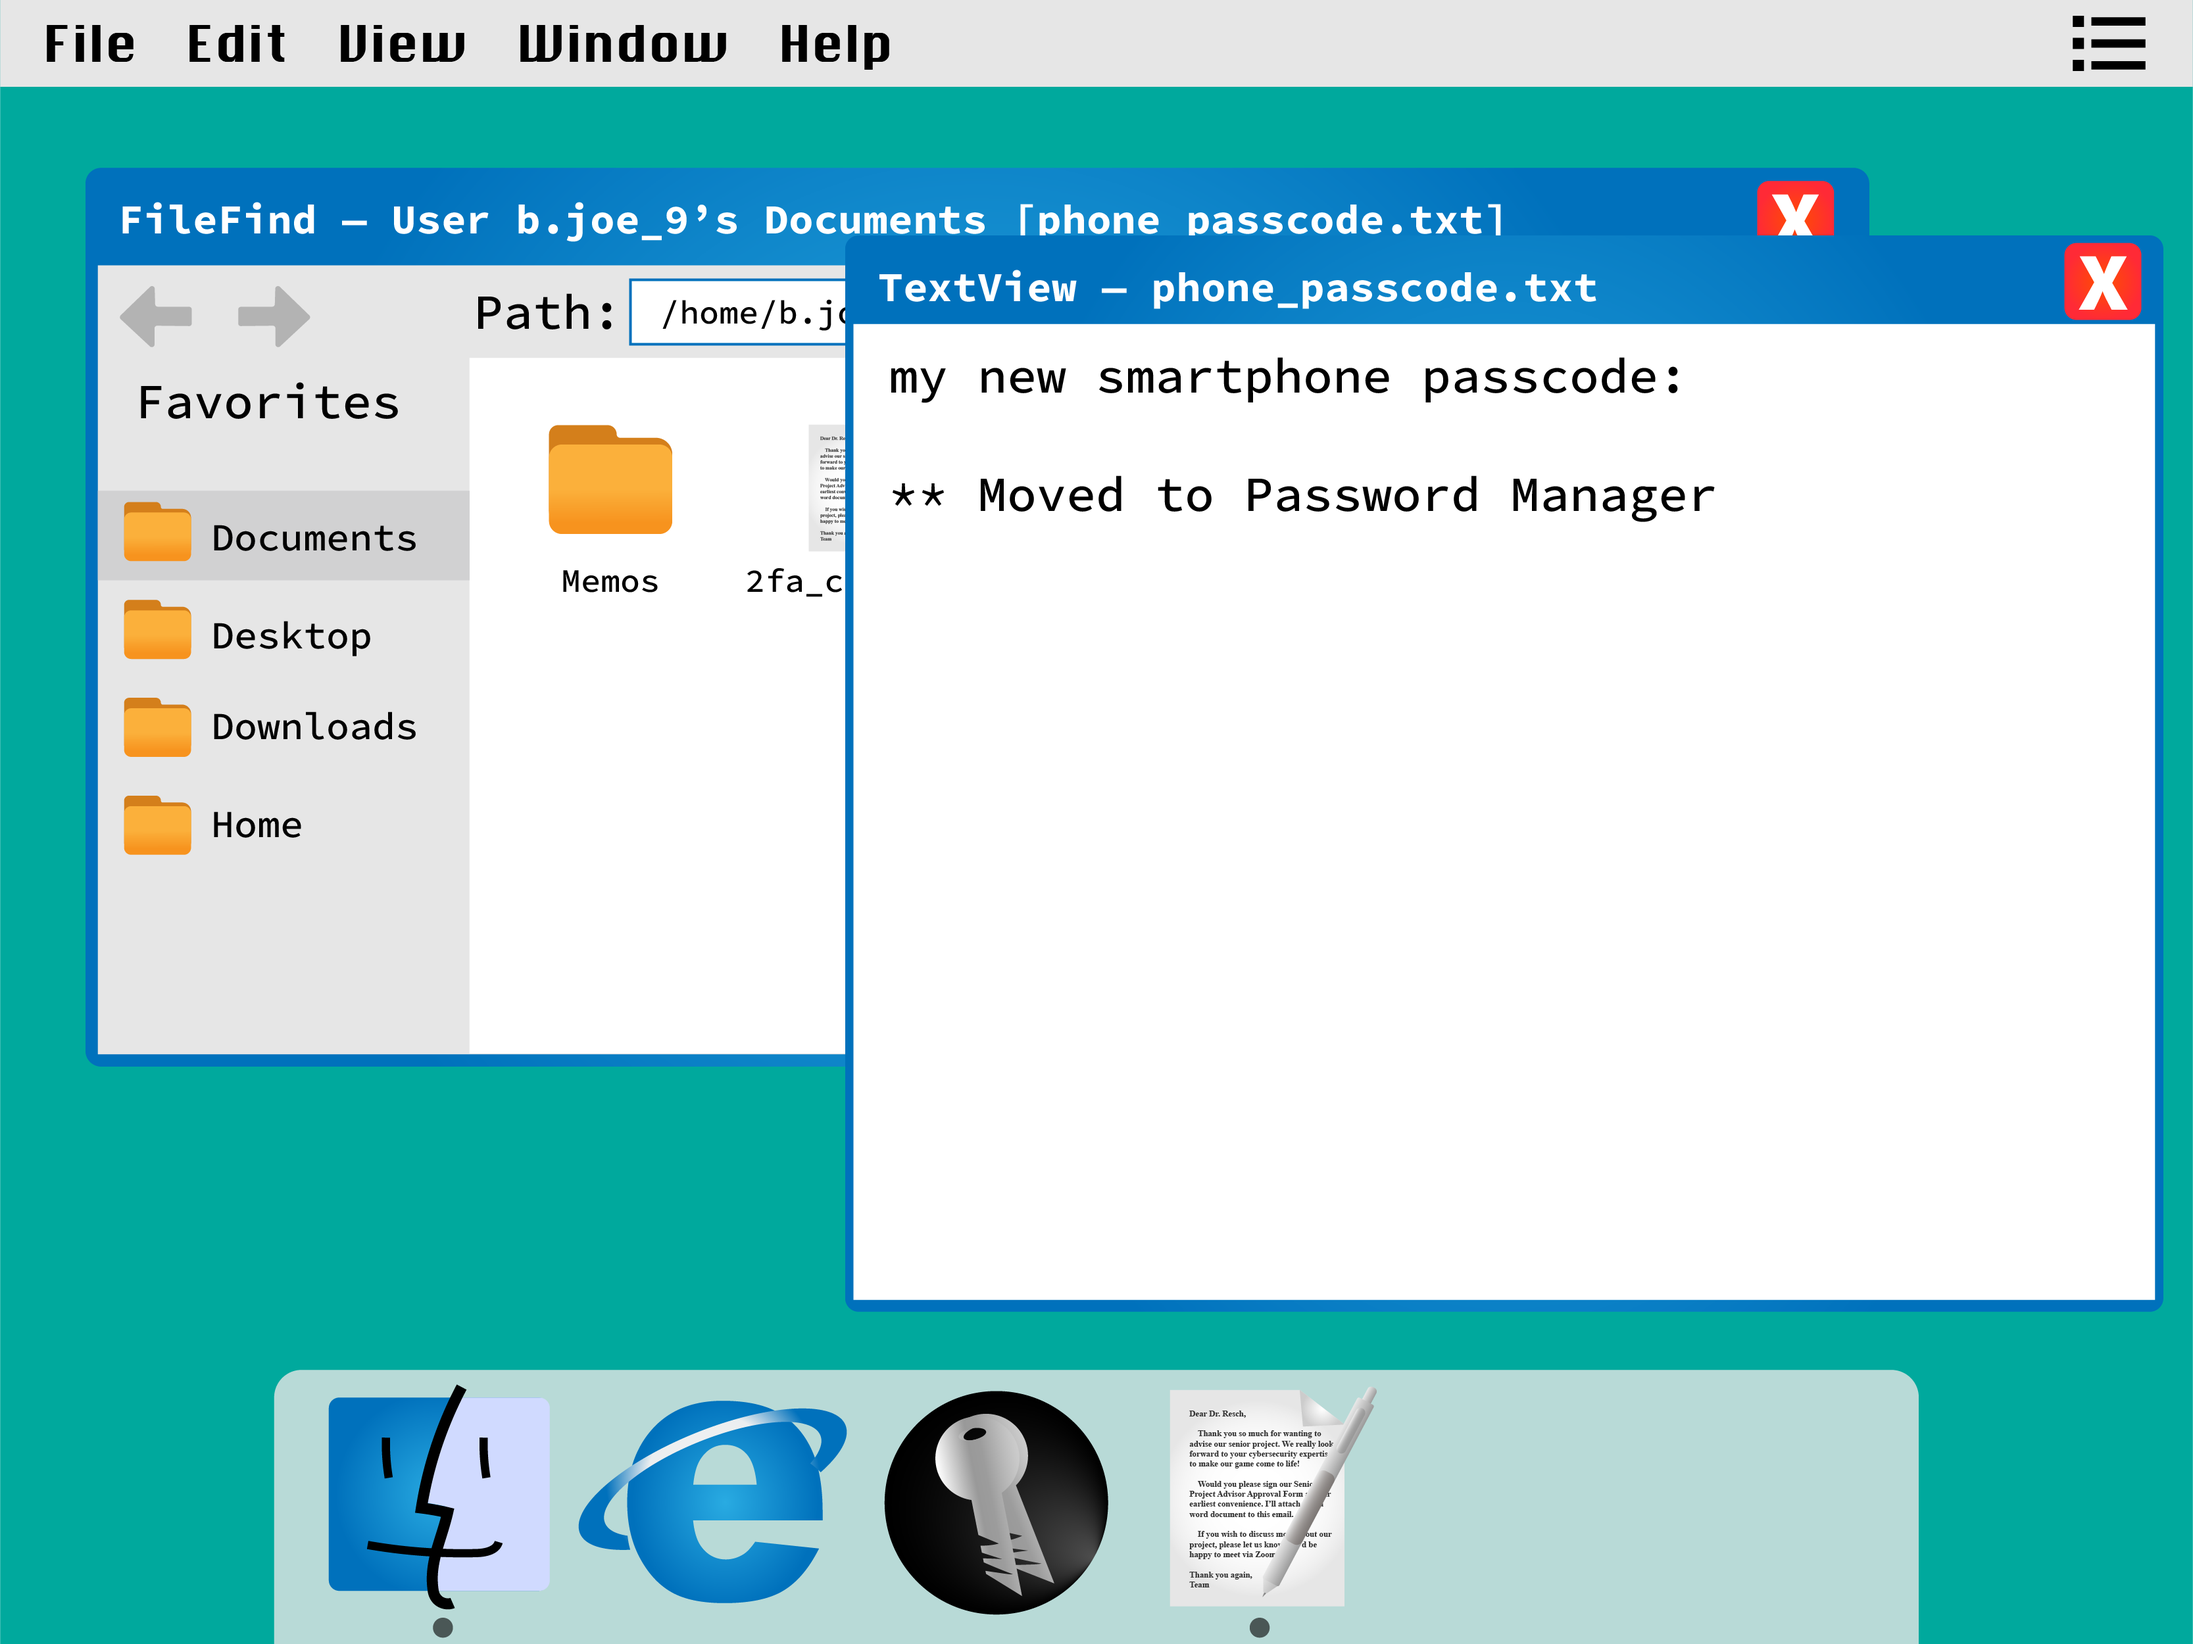
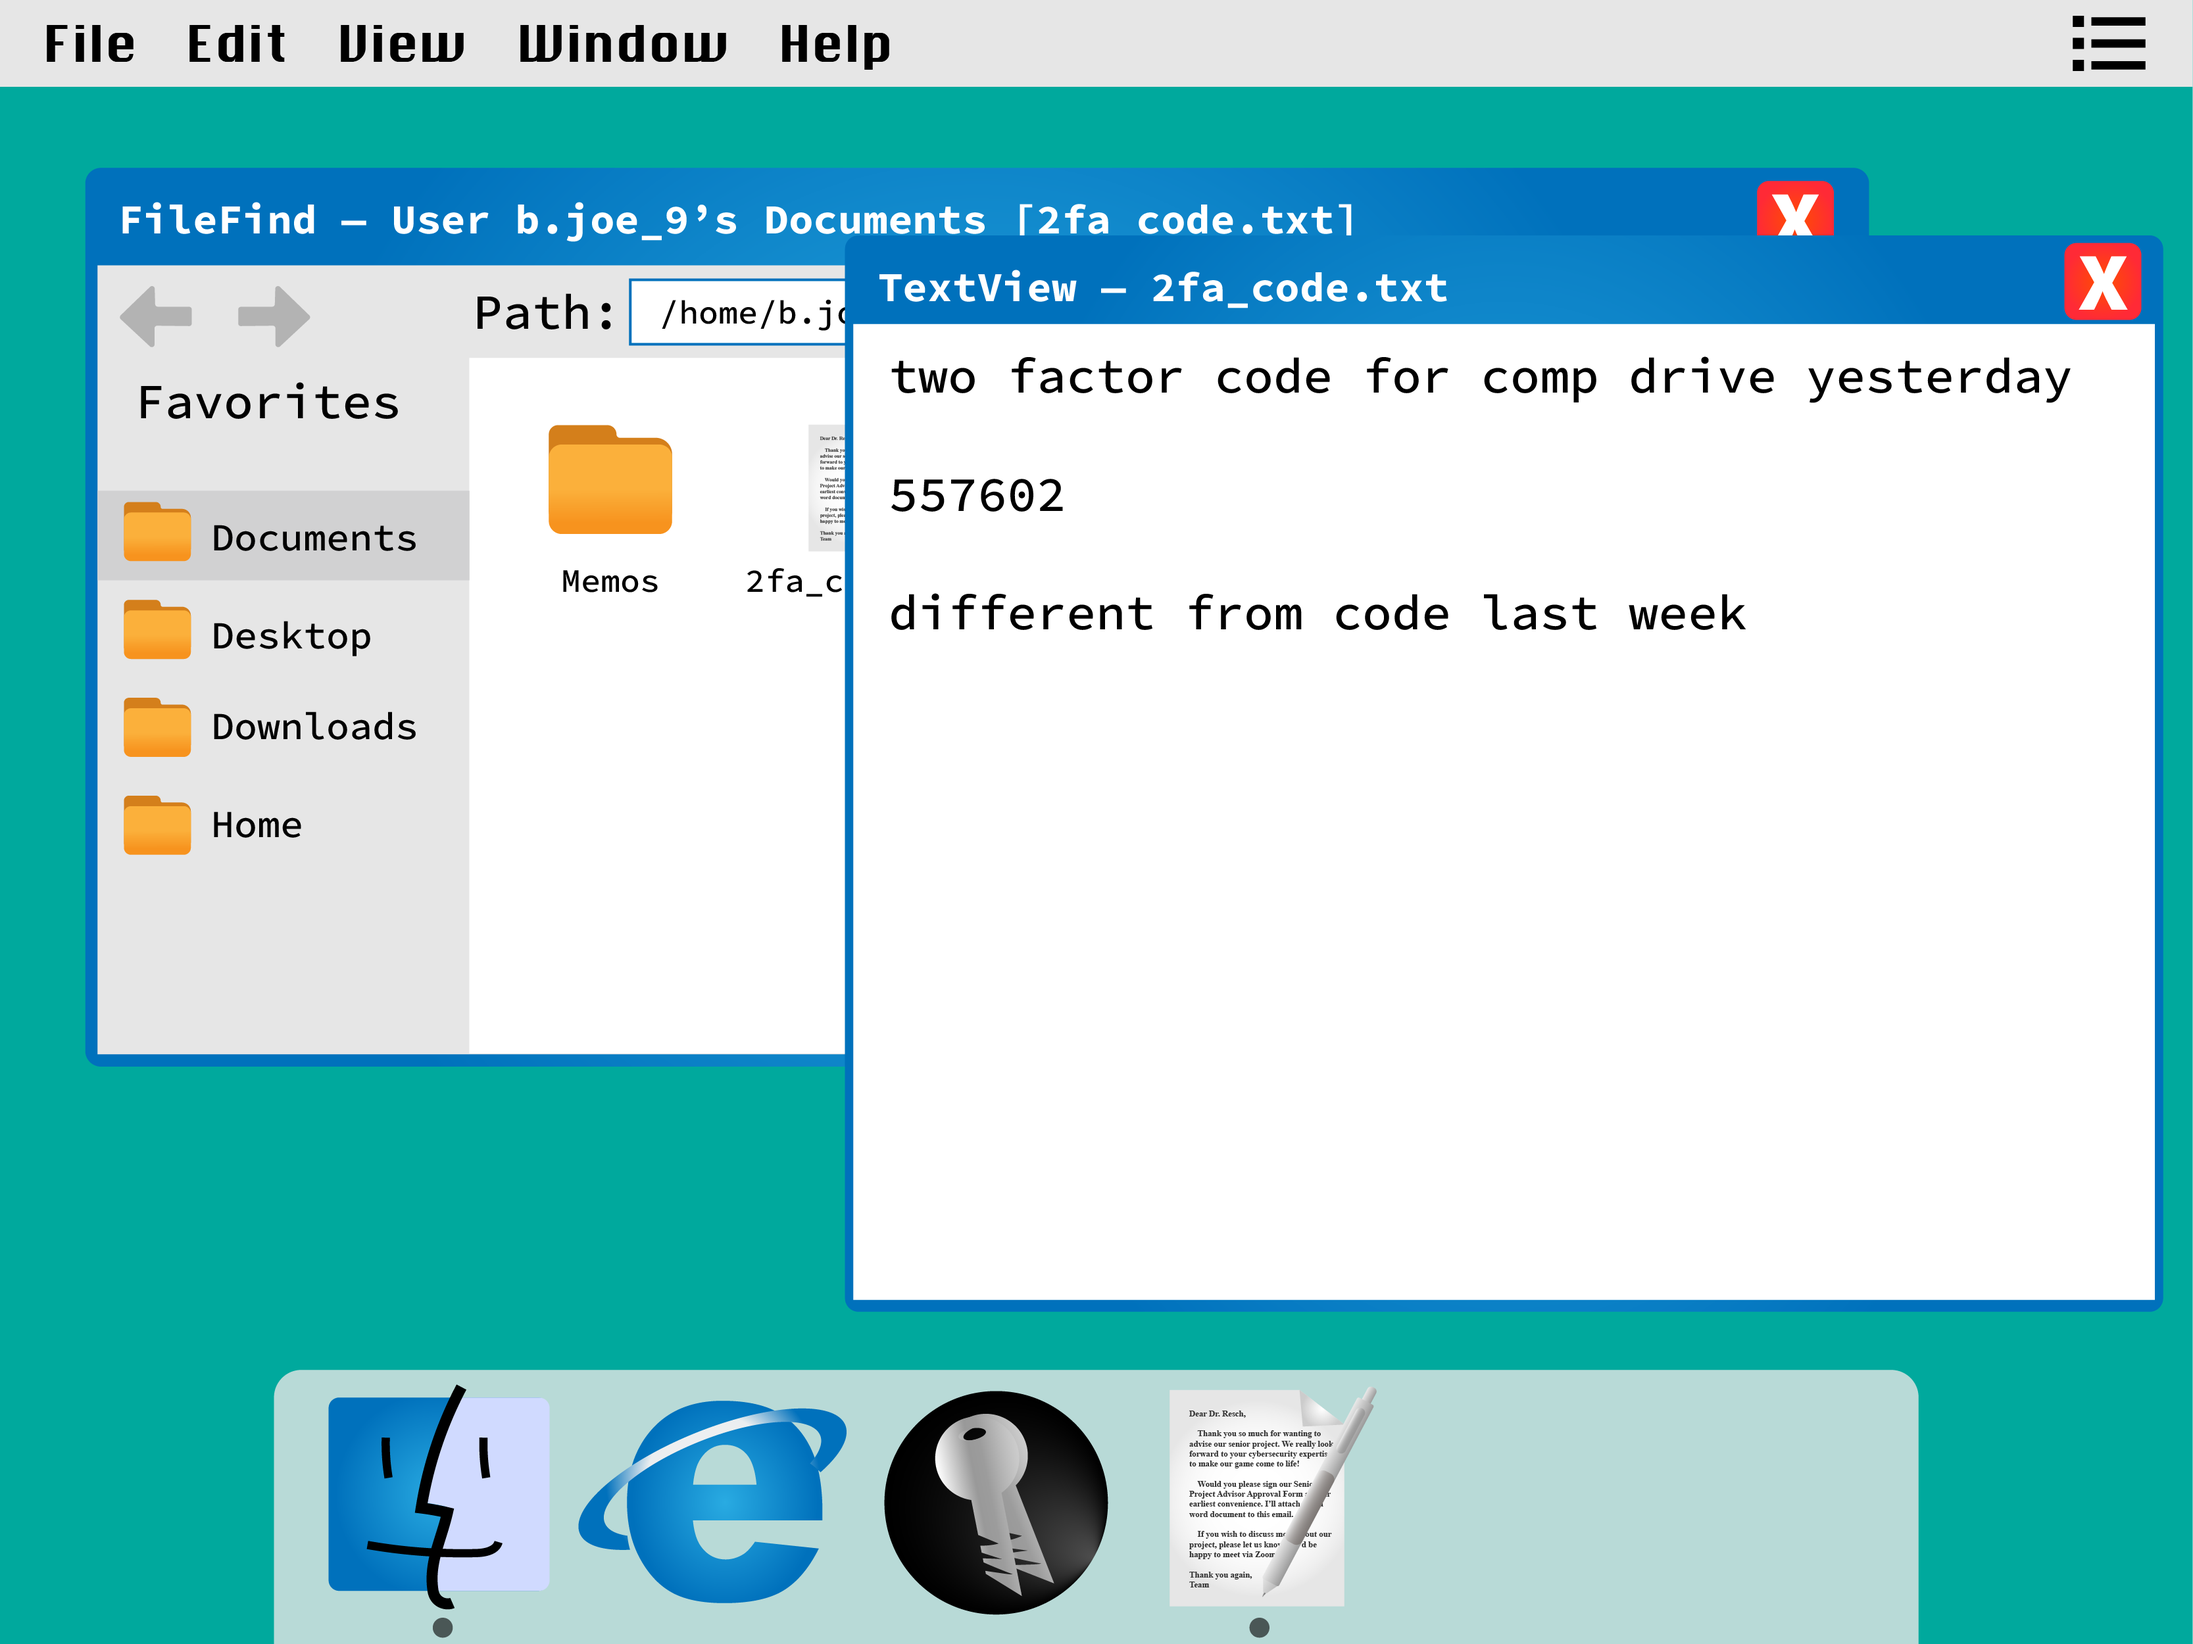
Added TextView & FileFind to PCUI

diff --git a/The Cyber Philes/Assets/Scripts/PC-UI/PCUIManager.cs b/The Cyber Philes/Assets/Scripts/PC-UI/PCUIManager.cs
@@ -48,6 +48,16 @@ public class UIScreenManager : MonoBehaviour
 
     private void WireButtons(string screenName)
     {
+
+        if (!screenName.Equals("1010") && !screenName.Equals("1011"))
+        {
+            // Show dock on all screens not the login screen
+            root.Q<Button>("DockFileFindButton")?.RegisterCallback<ClickEvent>(_ => ShowScreen("1110"));
+            root.Q<Button>("DockWebBrowserButton")?.RegisterCallback<ClickEvent>(_ => ShowScreen("1130"));
+            root.Q<Button>("DockPasswordManButton")?.RegisterCallback<ClickEvent>(_ => ShowScreen("1150"));
+            root.Q<Button>("DockTextViewButton")?.RegisterCallback<ClickEvent>(_ => ShowScreen("1122"));
+        }
+
         // Add buttons for each screen
         switch (screenName)
         {
@@ -63,15 +73,17 @@ public class UIScreenManager : MonoBehaviour
                         ShowScreen("1011"); // Incorrect login
                 };
                 break;
-    
-
-            case "1100":
-                root.Q<Button>("DockFileFindButton")?.RegisterCallback<ClickEvent>(_ => ShowScreen("1110"));
-                root.Q<Button>("DockWebBrowserButton")?.RegisterCallback<ClickEvent>(_ => ShowScreen("Browser"));
-                break;
 
             case "1110":
                 root.Q<Button>("CloseButton")?.RegisterCallback<ClickEvent>(_ => ShowScreen("1100"));
+                root.Q<Button>("2faButton")?.RegisterCallback<ClickEvent>(_ => ShowScreen("1121"));
+                root.Q<Button>("passcodeButton")?.RegisterCallback<ClickEvent>(_ => ShowScreen("1122"));
+                break;
+
+            case "1121":
+            case "1122":
+                root.Q<Button>("CloseButton")?.RegisterCallback<ClickEvent>(_ => ShowScreen("1110"));
+                root.Q<Button>("CloseButtonBoth")?.RegisterCallback<ClickEvent>(_ => ShowScreen("1100"));
                 break;
         }
     }
